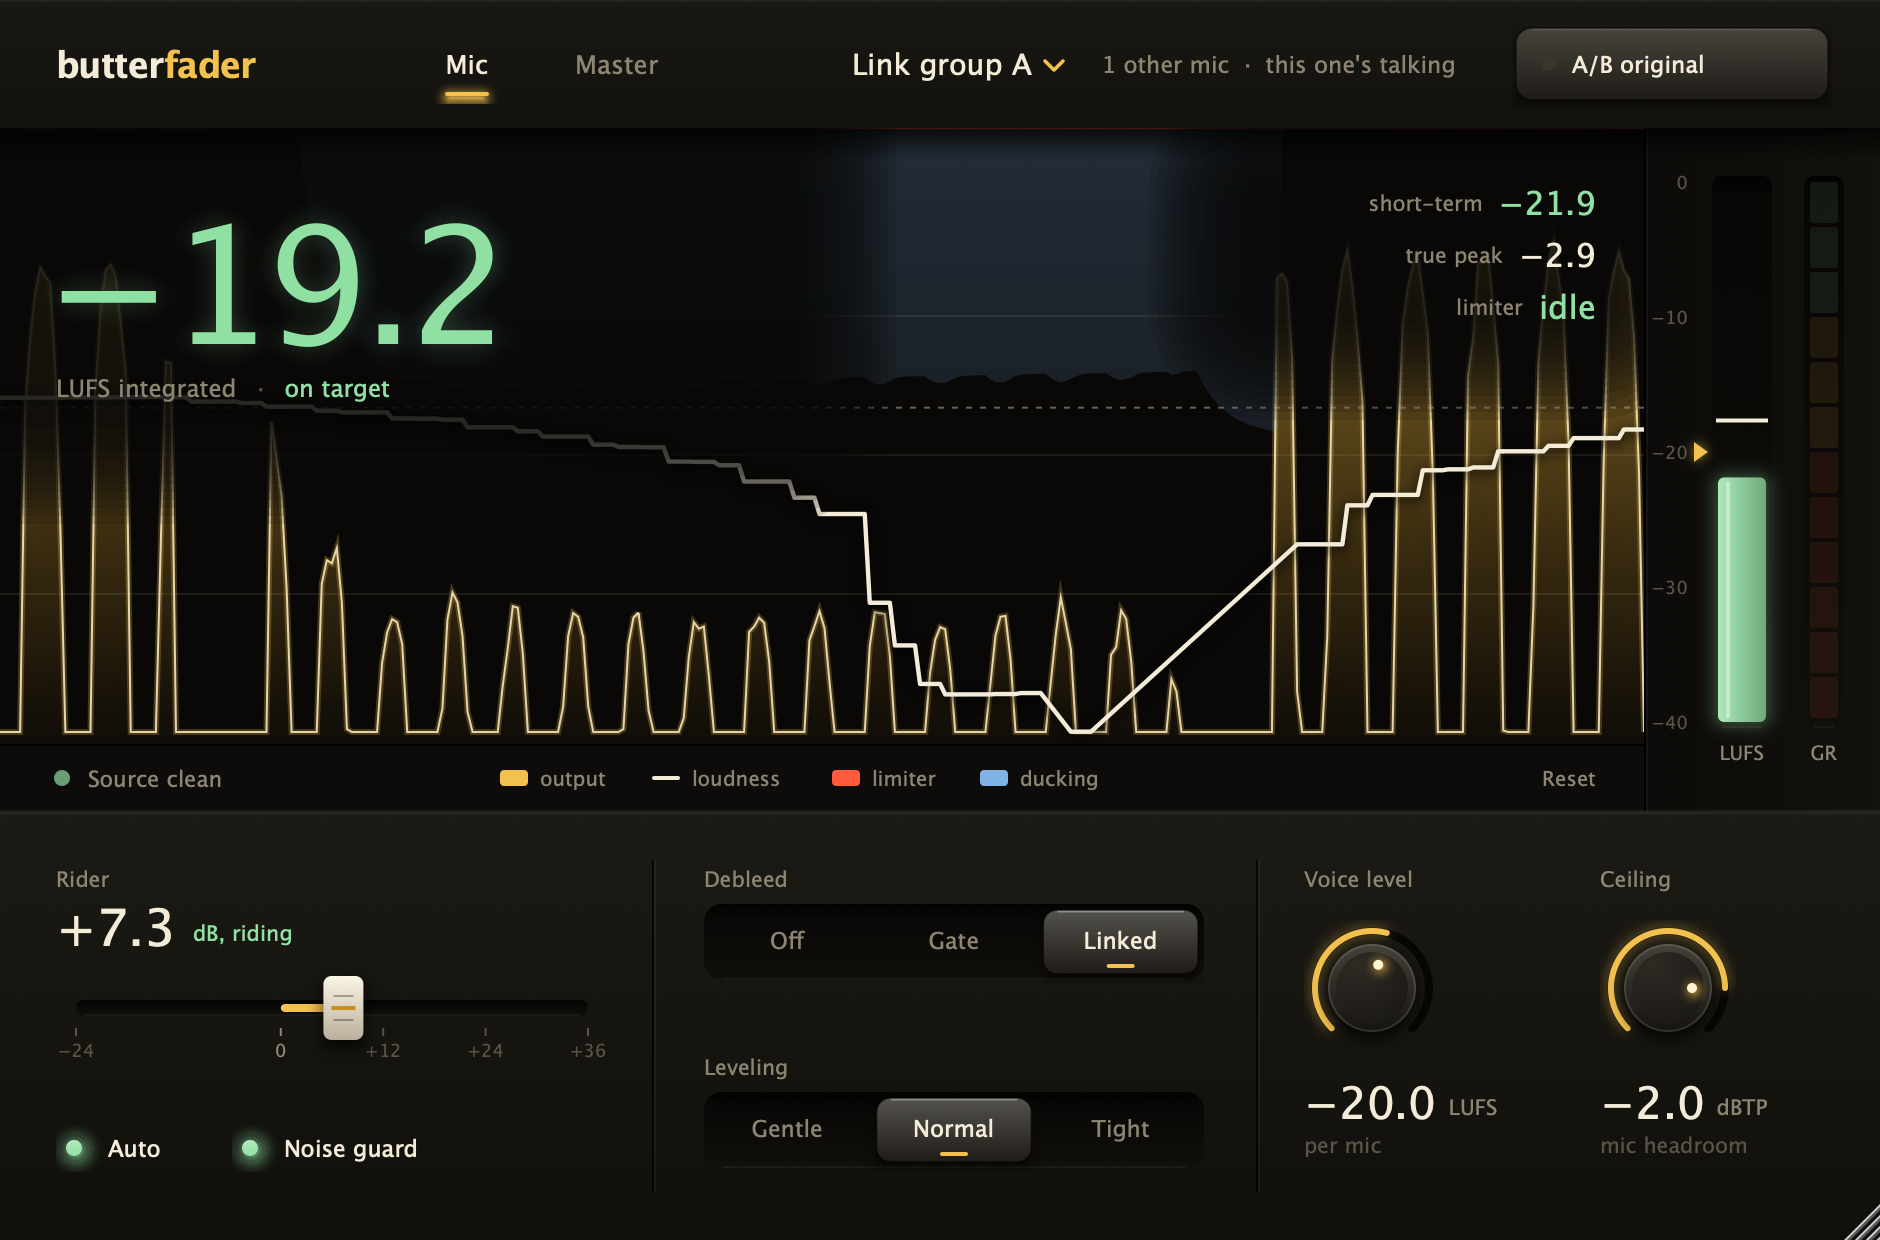
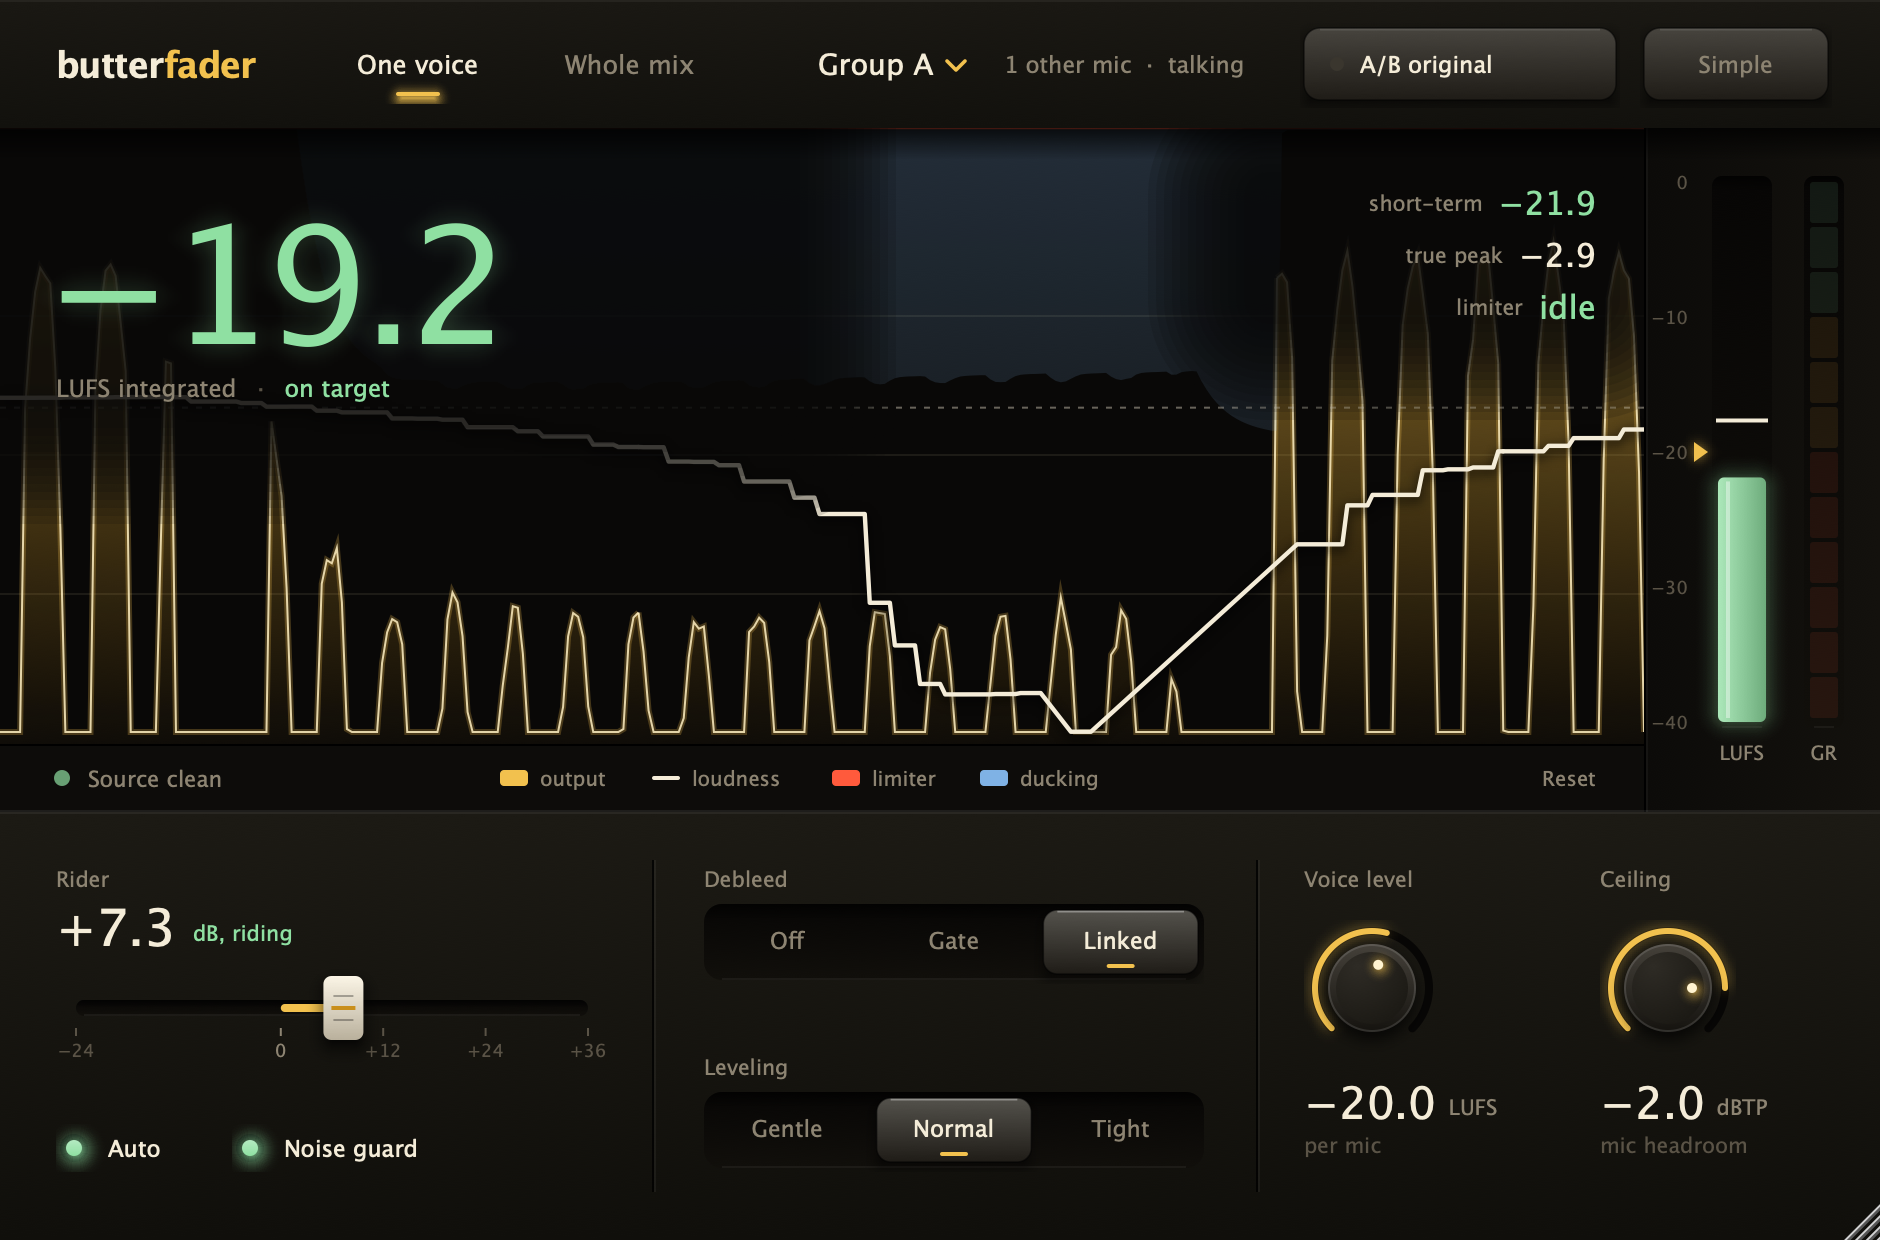
Call the modes One voice and Whole mix
"Mic" and "Master" are mixing-desk words, and the people this is for record talk
rather than mix records. The choice now says what each instance is for, in the
plug-in and in the host's own parameter list.

The wider tabs left the top bar tight, so the header now shares out the space it
has: the menu keeps its width, the status line takes what's left and is squeezed
if it has to be. The link menu reads "Group A" and the linked-mic line lost its
spare words, which is what made room.

Screenshots redone: the simple face, the advanced face and One voice mode.

Changed region(s): [[0.4319, 0.0, 0.9564, 0.0613], [0.1851, 0.0306, 0.2777, 0.0919], [0.3085, 0.0306, 0.3702, 0.0613]]

diff --git a/Source/PluginEditor.cpp b/Source/PluginEditor.cpp
@@ -26,7 +26,7 @@ ButterfaderAudioProcessorEditor::ButterfaderAudioProcessorEditor (ButterfaderAud
     platformAttachment = std::make_unique<juce::ComboBoxParameterAttachment> (*p.apvts.getParameter ("platform"), platformBox);
     platformBox.setTooltip ("Where is this going? Butterfader aims for that platform's loudness and peak rules.");
 
-    groupBox.addItemList ({ "Link group A", "Link group B", "Link group C", "Link group D" }, 1);
+    groupBox.addItemList ({ "Group A", "Group B", "Group C", "Group D" }, 1);
     groupAttachment = std::make_unique<juce::ComboBoxParameterAttachment> (*p.apvts.getParameter ("group"), groupBox);
     groupBox.setTooltip ("Mics in the same group duck each other's bleed. Use different groups for separate shows or scenes.");
 
@@ -180,11 +180,11 @@ juce::String ButterfaderAudioProcessorEditor::headerSpec() const
 
     if (debleed == ButterfaderAudioProcessor::debleedOff)  return "Debleed off";
     if (debleed == ButterfaderAudioProcessor::debleedGate) return "Gating bleed on its own";
-    if (linkedMics == 0) return "No other mics linked yet";
+    if (linkedMics == 0) return "No other mics yet";
     const juce::String others = juce::String (linkedMics) + (linkedMics == 1 ? " other mic" : " other mics");
-    if (talkingNow)        return others + dot() + "this one's talking";
-    if (linkedTalking > 0) return others + dot() + "someone else talking";
-    return "Linked with " + others;
+    if (talkingNow)        return others + dot() + "talking";
+    if (linkedTalking > 0) return others + dot() + "someone else";
+    return others + dot() + "linked";
 }
 
 juce::String ButterfaderAudioProcessorEditor::statusMessage (juce::Colour& colour) const
@@ -218,7 +218,7 @@ void ButterfaderAudioProcessorEditor::layoutContent()
     rail = advanced ? area.removeFromBottom ((float) railHeight) : juce::Rectangle<float>();
     stage.setBounds (area.toNearestInt());
 
-    modeTabs.setBounds (juce::Rectangle<float> (196.0f, 12.0f, 150.0f, 40.0f).toNearestInt());
+    modeTabs.setBounds (juce::Rectangle<float> (156.0f, 12.0f, 212.0f, 40.0f).toNearestInt());
     viewKey.setBounds (juce::Rectangle<float> (topBar.getRight() - 24.0f - 96.0f, 10.0f, 96.0f, 44.0f).toNearestInt());
     compare.setBounds (juce::Rectangle<float> ((float) viewKey.getX() - 10.0f - 160.0f, 10.0f, 160.0f, 44.0f).toNearestInt());
     layoutHeader();
@@ -246,13 +246,18 @@ void ButterfaderAudioProcessorEditor::layoutContent()
 // The destination (or link group) reads as a title followed by its spec, right-aligned against A/B.
 void ButterfaderAudioProcessorEditor::layoutHeader()
 {
-    const auto specFont = font (13.5f);
-    const float specW = specFont.getStringWidthFloat (lastSpec.isEmpty() ? headerSpec() : lastSpec) + 4.0f;
     const float right = (float) compare.getX() - 24.0f;
-    specArea = { right - specW, 12.0f, specW, 40.0f };
+    const float left = (float) modeTabs.getRight() + 16.0f;
 
     auto& box = micMode ? groupBox : platformBox;
     const float boxW = font (17.0f, "Semibold").getStringWidthFloat (box.getText()) + 30.0f;
+
+    // The menu keeps its width; the spec line takes whatever is left and is squeezed if it has to be,
+    // so a long link-group line never runs under the A/B key.
+    const float wanted = font (13.5f).getStringWidthFloat (lastSpec.isEmpty() ? headerSpec() : lastSpec) + 4.0f;
+    const float specW = juce::jlimit (0.0f, juce::jmax (0.0f, right - left - boxW - 12.0f), wanted);
+    specArea = { right - specW, 12.0f, specW, 40.0f };
+
     const auto boxBounds = juce::Rectangle<float> (specArea.getX() - 12.0f - boxW, 12.0f, boxW, 40.0f).toNearestInt();
     platformBox.setBounds (boxBounds);
     groupBox.setBounds (boxBounds);
@@ -283,7 +288,7 @@ void ButterfaderAudioProcessorEditor::paintContent (juce::Graphics& g)
 
     g.setFont (font (13.5f));
     g.setColour (colours::textDim);
-    g.drawText (lastSpec, specArea, juce::Justification::centredLeft);
+    g.drawFittedText (lastSpec, specArea.toNearestInt(), juce::Justification::centredLeft, 1, 0.9f);
 
     if (! advanced)
         return;

diff --git a/Source/PluginProcessor.cpp b/Source/PluginProcessor.cpp
@@ -40,7 +40,7 @@ juce::AudioProcessorValueTreeState::ParameterLayout ButterfaderAudioProcessor::c
     using namespace juce;
     std::vector<std::unique_ptr<RangedAudioParameter>> p;
 
-    p.push_back (std::make_unique<AudioParameterChoice> (ParameterID { "mode", 1 }, "Mode", StringArray { "Mic", "Master" }, masterMode));
+    p.push_back (std::make_unique<AudioParameterChoice> (ParameterID { "mode", 1 }, "Mode", StringArray { "One voice", "Whole mix" }, masterMode));
     p.push_back (std::make_unique<AudioParameterChoice> (ParameterID { "platform", 1 }, "Platform", bf::platformNames(), 0));
     p.push_back (std::make_unique<AudioParameterFloat> (ParameterID { "target", 1 }, "Custom target",
         NormalisableRange<float> (-30.0f, -6.0f, 0.5f), -14.0f,

diff --git a/Source/UI/Components.h b/Source/UI/Components.h
@@ -17,12 +17,12 @@ public:
         attachment.sendInitialUpdate();
         setRepaintsOnMouseActivity (true);
         setMouseCursor (juce::MouseCursor::PointingHandCursor);
-        setTooltip ("Mic: put one on each voice. Master: put one on the Mix track.");
+        setTooltip ("One voice: put one on each voice track. Whole mix: put one on the Mix track.");
     }
 
     void paint (juce::Graphics& g) override
     {
-        const juce::StringArray names { "Mic", "Master" };
+        const juce::StringArray names { "One voice", "Whole mix" };
         auto r = getLocalBounds().toFloat();
         const float w = r.getWidth() / 2.0f;
         for (int i = 0; i < 2; ++i)

diff --git a/README.md b/README.md
@@ -4,22 +4,31 @@ A loudness plug-in for Premiere Pro, Audition and any VST3/AU host. Put one on e
 
 ![Butterfader](docs/screenshot.png)
 
+## Simple by default
+
+Butterfader opens showing only the destination, the meters and a plain-language status line, and its
+defaults are a working setup: auto levelling and the noise guard on, and the right target for wherever
+it's going. **Advanced** in the top right adds the rest — rider, character, leveling speed, target,
+ceiling and debleed — and the window remembers which face you left it on.
+
 ## Two modes
 
-**Mic** goes on each voice track. It levels the voice to an even speech level (about -20 LUFS) with a -2 dBTP safety ceiling, and removes bleed from other mics.
+**One voice** goes on each voice track. It levels the voice to an even speech level (about -20 LUFS) with a -2 dBTP safety ceiling, and removes bleed from other mics.
 
-**Master** goes on the Mix track. It takes the whole programme to a platform target.
+**Whole mix** goes on the Mix track. It takes the whole programme to a platform target.
 
-![Mic mode](docs/screenshot-mic.png)
+![Advanced](docs/screenshot-advanced.png)
+
+![One voice mode](docs/screenshot-mic.png)
 
 ## What it does
 
 | | |
 |---|---|
-| **Debleed (Mic)** | *Linked*: every Butterfader in Mic mode in the same link group shares who's talking, with no routing, and turns down the mics that aren't talking (like an auto-mixer). *Gate*: ducks quiet bleed using this mic's own level, and is used automatically when a linked mic has no partners. *Off*. |
-| **Link group (Mic)** | A to D. Mics only duck others in the same group, so separate shows or scenes don't interfere. |
+| **Debleed (One voice)** | *Linked*: every Butterfader in One voice mode in the same group shares who's talking, with no routing, and turns down the mics that aren't talking (like an auto-mixer). *Gate*: ducks quiet bleed using this mic's own level, and is used automatically when a linked mic has no partners. *Off*. |
+| **Group (One voice)** | A to D. Mics only duck others in the same group, so separate shows or scenes don't interfere. |
 | **Noise guard** | Tracks the background hiss and hum. The rider never learns levels from noise or bleed, and between phrases the noise is pushed back down to at least the level it came in at. |
-| **Deliver to (Master)** | Spotify, Apple Music, YouTube, Amazon, Tidal, Deezer, SoundCloud, Instagram/TikTok, Podcast, Audiobook (ACX), EBU R128, ATSC A/85 or Custom. Sets the loudness target and caps the ceiling at the platform's limit. |
+| **Deliver to (Whole mix)** | Spotify, Apple Music, YouTube, Amazon, Tidal, Deezer, SoundCloud, Instagram/TikTok, Podcast, Audiobook (ACX), EBU R128, ATSC A/85 or Custom. Sets the loudness target and caps the ceiling at the platform's limit. |
 | **Rider (Auto)** | Learns how loud the source is while it plays and moves the gain toward the target, up to +36 dB for quiet recordings. It holds still through pauses, so room tone isn't pumped up. Switch to Manual to set the gain yourself. |
 | **True-peak limiter** | Look-ahead, stereo-linked, 8x true-peak detection. The ceiling defaults to -1 dBTP. Character: Clean, Punchy (fast release) or Smooth (slow release). Release slows automatically under sustained limiting. |
 | **Display** | The last few seconds of output, with limiter reduction in red from the top, ducking in blue and the short-term loudness line. The big number is integrated LUFS, coloured green on target, amber a bit hot, red too loud, blue quiet. |
@@ -34,8 +43,8 @@ Latency is about 2.3 ms, reported to the host. The window scales from 60% to 200
 
 ## Tips for Premiere Pro
 
-- Put a **Mic** instance on each voice track, and a **Master** instance on the **Mix** track, then export.
-- Linked debleed relies on the host running all the instances together, which Premiere and Audition do on playback and export. If linking ever doesn't kick in, the header says "No other mics linked yet" and Gate is used instead.
+- Put a **One voice** instance on each voice track, and a **Whole mix** instance on the **Mix** track, then export.
+- Linked debleed relies on the host running all the instances together, which Premiere and Audition do on playback and export. If linking ever doesn't kick in, the header says "No other mics yet" and Gate is used instead.
 - The rider learns while audio plays, so the first second or so after a cold start is where it locks on.
 - Mono tracks are measured as dual-mono, which is how they play back on two speakers.
 
